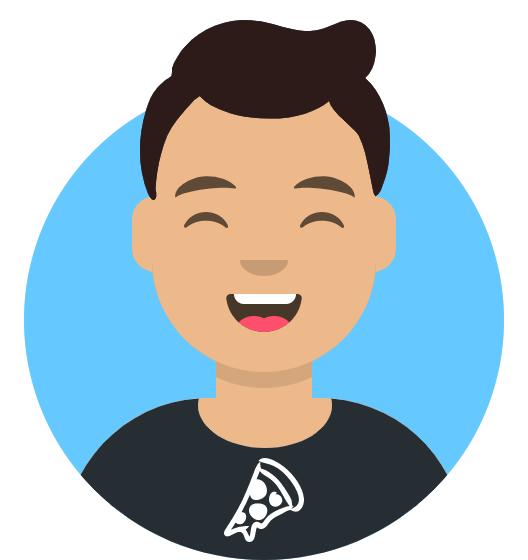
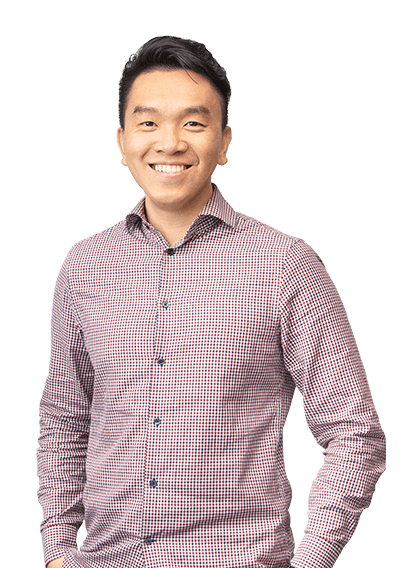
updated about me info and picture

diff --git a/public/css/layout.css b/public/css/layout.css
@@ -156,7 +156,7 @@ ul#nav {
 ul#nav li {
    position: relative;
    list-style: none;
-   height: 48px;
+   /* height: 48px; */
    display: inline;
 }
 
@@ -189,9 +189,6 @@ ul#nav li.current a { color: #F06000; }
 
 #about {
    background: rgba(26, 34, 46) ;
-   /* background: #191919; */
-   /* background: #ebeeee; */
-
    padding-top: 96px;
    padding-bottom: 66px;
    overflow: hidden;
@@ -211,7 +208,6 @@ ul#nav li.current a { color: #F06000; }
 }
 #about .profile-pic {
    position: relative;
-   /* right: 150px; */
 }
 #about .contact-details { width: 41.66667%; }
 #about .download {
@@ -317,12 +313,9 @@ ul#nav li.current a { color: #F06000; }
    position: absolute;
    left: 0;
    top: 0;
-
    margin: 0;
    padding-right: 24px;
    background: #11ABB0;
-   /* background: #F06000; */
-  	/* background: #313131; */
    display: inline-block;
   	height: 42px;
    line-height: 42px;
@@ -350,54 +343,26 @@ ul#nav li.current a { color: #F06000; }
   	-webkit-animation: reactjs 2s ease;
 }
 
-@-moz-keyframes photoshop {
+@keyframes sql {
   0%   { width: 0px;  }
   100% { width: 60%;  }
 }
-@-moz-keyframes illustrator {
-  0%   { width: 0px;  }
-  100% { width: 55%;  }
-}
-@-moz-keyframes sql {
-  0%   { width: 0px;  }
-  100% { width: 60%;  }
-}
-@-moz-keyframes css {
+@keyframes css {
   0%   { width: 0px;  }
   100% { width: 70%;  }
 }
-@-moz-keyframes html5 {
+@keyframes html5 {
   0%   { width: 0px;  }
   100% { width: 80%;  }
 }
-@-moz-keyframes reactjs {
+@keyframes reactjs {
   0%   { width: 0px;  }
   100% { width: 80%;  }
 }
 
-@-webkit-keyframes photoshop {
-  0%   { width: 0px;  }
-  100% { width: 60%;  }
-}
-@-webkit-keyframes illustrator {
-  0%   { width: 0px;  }
-  100% { width: 55%;  }
-}
 @-webkit-keyframes sql {
   0%   { width: 0px;  }
   100% { width: 60%;  }
-}
-@-webkit-keyframes css {
-  0%   { width: 0px;  }
-  100% { width: 70%;  }
-}
-@-webkit-keyframes html5 {
-  0%   { width: 0px;  }
-  100% { width: 80%;  }
-}
-@-webkit-keyframes reactjs {
-  0%   { width: 0px;  }
-  100% { width: 80%;  }
 }
 
 /* ------------------------------------------------------------------ */
@@ -615,10 +580,7 @@ ul#nav li.current a { color: #F06000; }
    font-size: 17px;
 }
 /*#
-call-to-action .button {
-	color:#fff;
-   background: #0D0D0D;
-}
+
 */
 #call-to-action .button:hover,
 #call-to-action .button:active {
@@ -808,7 +770,6 @@ call-to-action .button {
    font-family: 'FontAwesome';
    content: "\f0e0";
 	font-size: 72px;
-   /* line-height: 72px; */
    float: center;
    color: #ebeeee;
    position:relative;
@@ -851,22 +812,23 @@ call-to-action .button {
    font-size: 15px;
    line-height: 24px;
    width: 35%;
-   /* text-align: center; */
-   /* position:relative; */
-
 }
+
 #contactMsg{
    /* left:100px */
 }
+
 #contactBtn{
    margin-left:245px
 }
+
 #contact input:focus,
 #contact textarea:focus,
 #contact select:focus {
 	color: #fff;
 	background-color: #11ABB0;
 }
+
 #contact input.submit {
 	text-transform: uppercase;
 	letter-spacing: 3px;
@@ -880,14 +842,17 @@ call-to-action .button {
    margin-left: 26%;
    text-align:center;
 }
+
 #contact input.submit:hover {
 	color: #0D0D0D;
 	background: #fff;
 }
+
 #contact span.required {
 	color: #11ABB0;
 	font-size: 13px;
 }
+
 #message-warning, #message-success {
    display: none;
 	background: #0F0F0F;
@@ -896,6 +861,7 @@ call-to-action .button {
    width: 65%;
    margin-left: 26%;
 }
+
 #message-warning { color: #D72828; }
 #message-success { color: #11ABB0; }
 
@@ -903,13 +869,13 @@ call-to-action .button {
 #message-success i {
    margin-right: 10px;
 }
+
 #image-loader {
    display: none;
    position: relative;
    left: 18px;
    top: 17px;
 }
-
 
 /* Twitter Feed */
 #twitter {

diff --git a/src/components/about/about.js b/src/components/about/about.js
@@ -5,26 +5,18 @@ export default class About extends Component {
     return (
       <section id="about">
          <div className="row">
-
             <div className="three columns">
-
-               <img className="profile-pic"  src="images/profilepic.png" alt="" />
-
+               <img className="profile-pic"  src="images/profilepic3.png" alt="" />
             </div>
-
             <div className="nine columns main-col">
-
                <h2>About Me</h2>
-               <p>
                {
-                 resumeData.aboutme
+                 resumeData.aboutme.split('\n').map(text=>{
+                    return <p style={{marginBottom:'1rem'}}>{text}</p>
+                 })
                }
-               </p>
-
                <div className="row">
-
                   <div className="columns contact-details">
-
                   <h2>Contact Details</h2>
                   <p className="address">
        						<span>{resumeData.name}</span>

diff --git a/src/resumeData.js b/src/resumeData.js
@@ -20,7 +20,8 @@ let resumeData = {
         }
     ],
     aboutme:
-        "I have a Bachelor's Degree in Information Systems and have been working in the software industry for less than a year.",
+        "I am an alumnus of Cal State University, Fullerton. Since graduation, my Bachelor's Degree in Information Systems have allowed me to work in various roles within the tech industry. I have worked as a tech support supervisor to project manager for an enterprise-level software company." +
+        "\n My curiousity and constant need to seek out challenges have propelled me over to the engineering side of the software industry. My position as a project manager was the catalyst that pushed me to attend Redwood Code Academy and pursue my passion for software development.",
     address: 'Orange County, CA',
     website: 'kimlongt.vo@gmail.com',
     education: [

diff --git a/public/css/media-queries.css b/public/css/media-queries.css
@@ -50,9 +50,9 @@
    /* About Section
    ------------------------------------------------------------------- */
    #about .profile-pic {
-      width: 114px;
+      /* width: 114px;
       height: 114px;
-      margin-left: 12px;
+      margin-left: 12px; */
    }
    #about .contact-details { width: 50%; }
    #about .download { width: 50%; }
